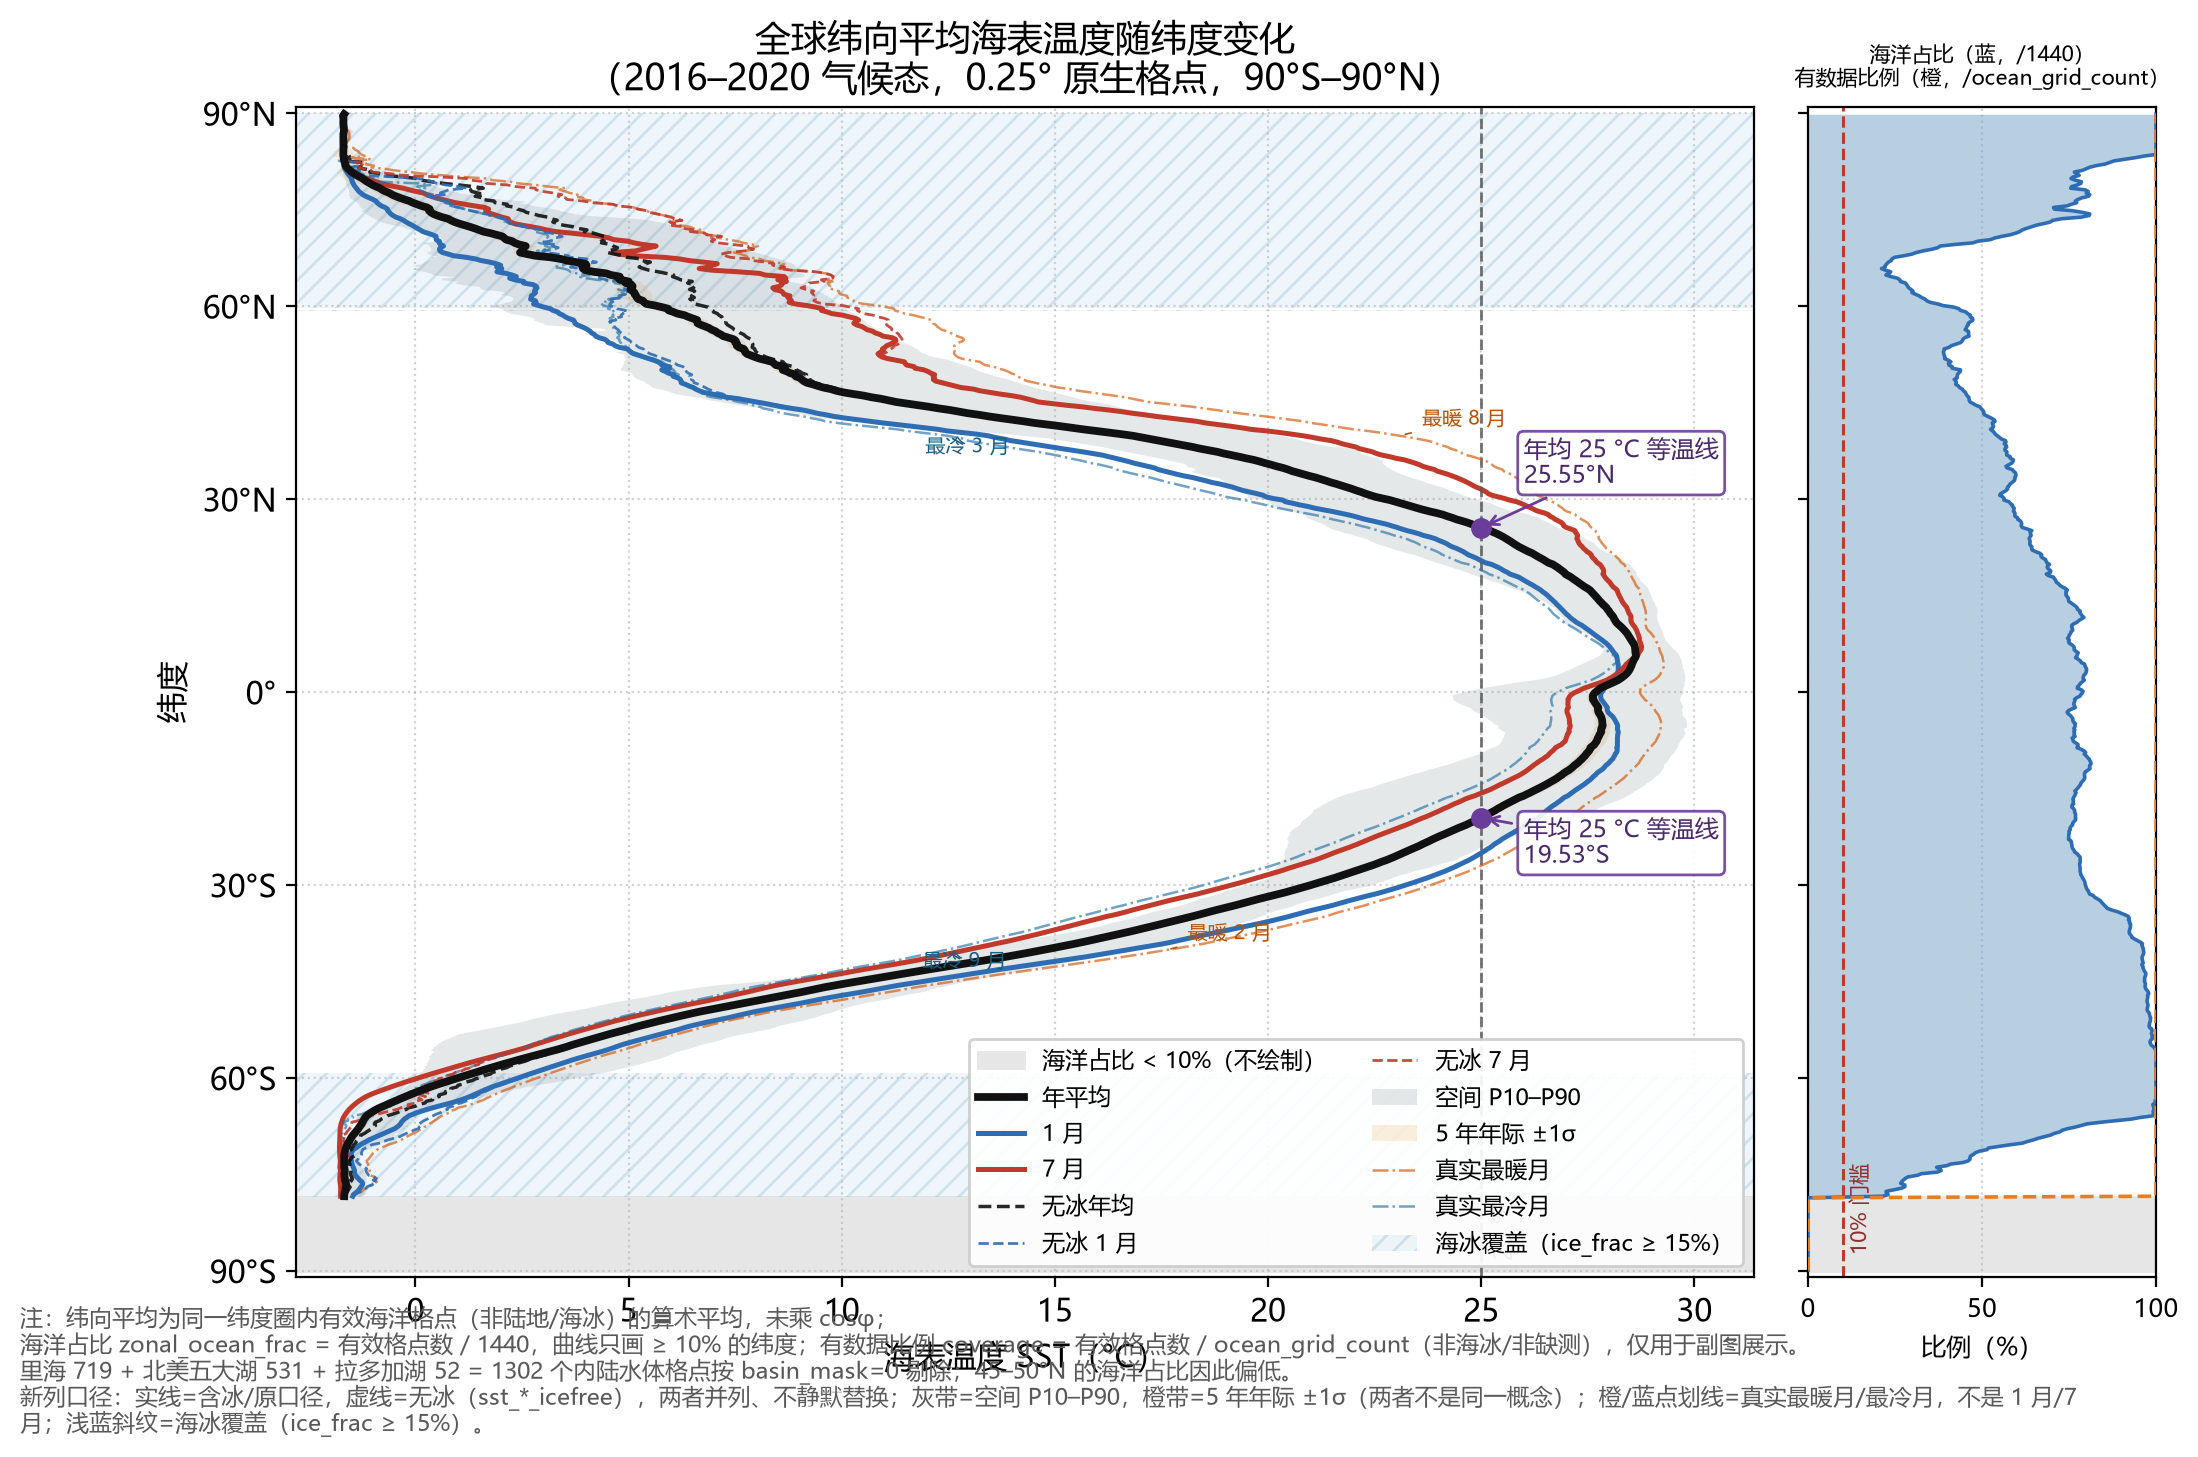
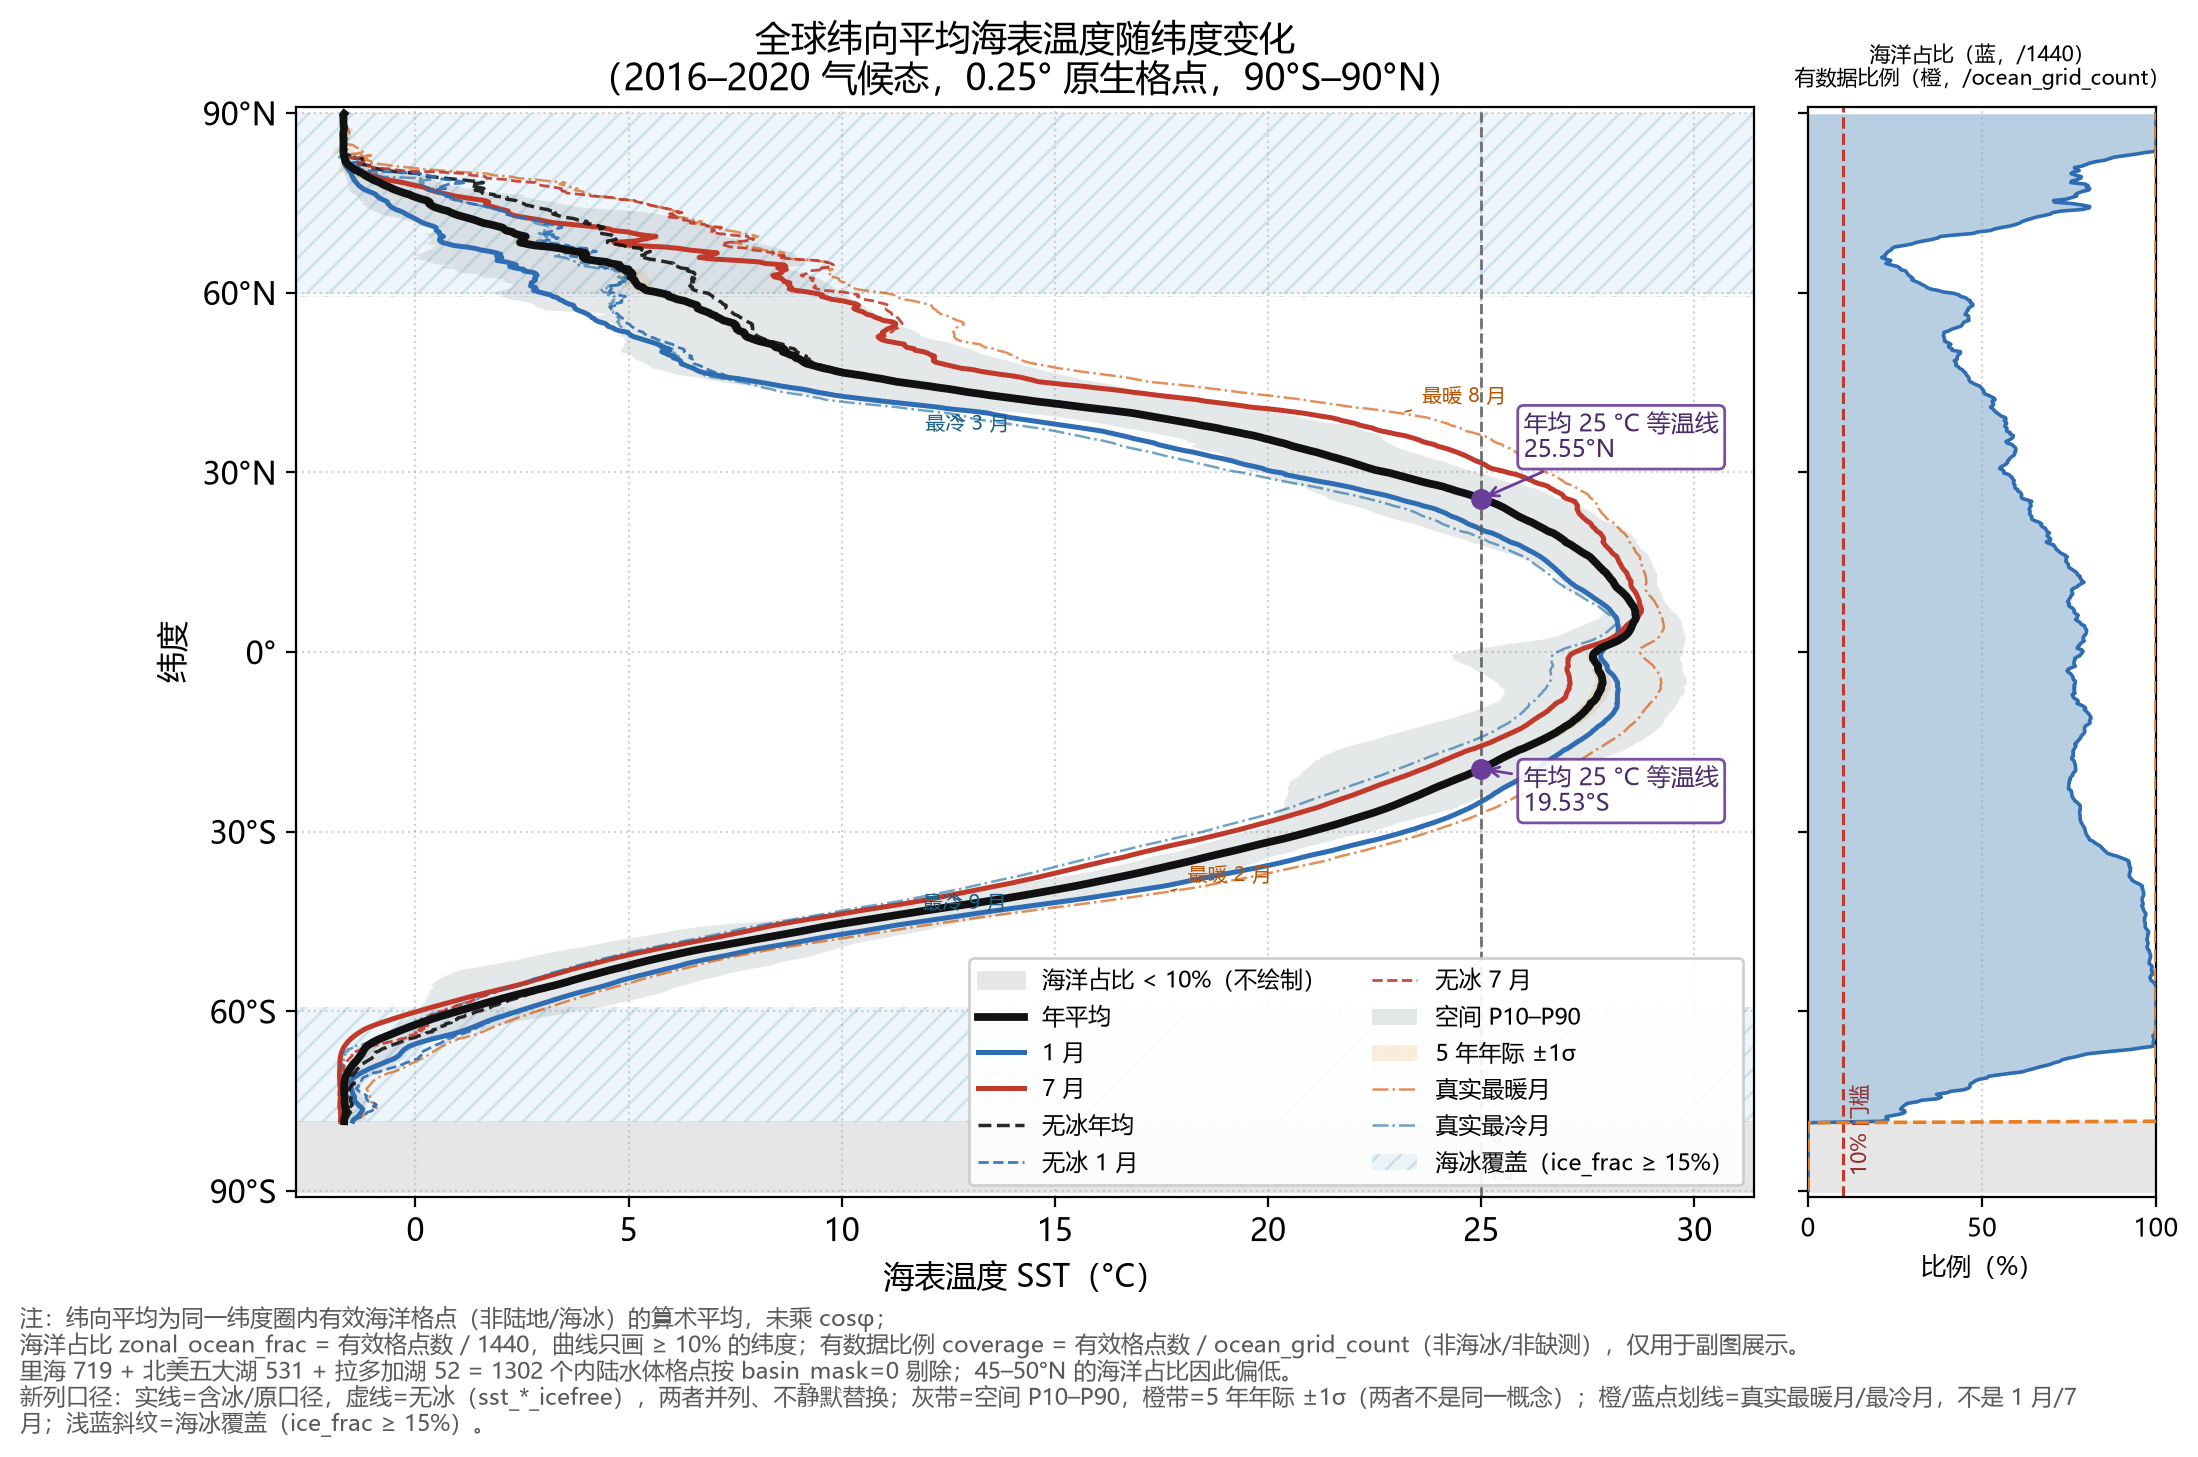
fix: 廓线图底部脚注与横轴标题重叠（按脚注行数自适应留白）

diff --git a/scripts/plot.py b/scripts/plot.py
@@ -637,6 +637,8 @@ def plot_global_profile(ctx: dict, cov_min: float) -> Path:
             + ("；浅蓝斜纹=海冰覆盖（ice_frac ≥ 15%）" if ice_drawn else "")
             + "。"
         )
+    n_note_lines = note.count("\n") + 1
+    fig.subplots_adjust(bottom=0.075 + 0.022 * n_note_lines)
     fig.text(
         0.01,
         0.005,
